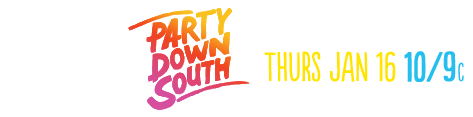
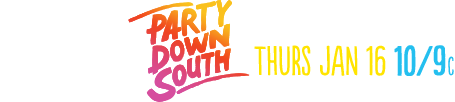
header update with changing background of body

Changed region(s): [[0.2462, 0.0, 1.0, 1.0]]

diff --git a/app/css/app.css b/app/css/app.css
@@ -1,5 +1,7 @@
 body {
-    background: #020000 url('../img/back.jpg') 50% 0 no-repeat;
+    background: url('../img/header-diagonal-bg-small.png') top no-repeat,
+    url('../img/background-image-no-border.jpg') top no-repeat,
+    #020000;
     color: #ffffff;
     font-size: 14px;
     font-family: Verdana, Geneva, 'DejaVu Sans', sans-serif;
@@ -178,9 +180,9 @@ body {
     background: rgba(0, 0, 0, 0.63);
 }
 
-    .footer > div {
-        overflow: hidden;
-    }
+.footer > div {
+    overflow: hidden;
+}
 
 .footer-col-left img {
     border: 1px solid #000;
@@ -201,19 +203,19 @@ body {
     margin: 5px 0 0;
 }
 
-    .footer-col-left li a {
-        display: block;
-    }
+.footer-col-left li a {
+    display: block;
+}
 
-    .footer-col-left li img {
-        vertical-align: top;
-        width: auto;
-    }
+.footer-col-left li img {
+    vertical-align: top;
+    width: auto;
+}
 
-    .footer-col-left li:first-child {
-        margin-right: 3%;
-        float: left;
-    }
+.footer-col-left li:first-child {
+    margin-right: 3%;
+    float: left;
+}
 
 .footer-intro {
     background: #000000;
@@ -223,13 +225,13 @@ body {
     margin-bottom: 25px;
 }
 
-    .footer-intro i {
-        font-size: 20px;
-        color: #FFF;
-        padding: 0 10px 0;
-        font-style: normal;
-        font-weight: bold;
-    }
+.footer-intro i {
+    font-size: 20px;
+    color: #FFF;
+    padding: 0 10px 0;
+    font-style: normal;
+    font-weight: bold;
+}
 
 .footer-col-right {
     float: left;
@@ -241,13 +243,60 @@ body {
     font-size: 12px;
 }
 
-    .footer-col-right p:first-child {
-        font-weight: bold;
-    }
+.footer-col-right p:first-child {
+    font-weight: bold;
+}
 
 .footer-col-left {
     float: left;
     width: 40%;
+}
+
+/*///////// HEADER  ///////////*/
+.row.header {
+    padding: 8px 0 7px 0;
+}
+
+#social {
+    position: absolute; 
+    top: 30px;
+    right: 20px;
+}
+
+#social a {
+    display: inline-block;
+    vertical-align: bottom;
+}
+
+.about-channel {
+    overflow: hidden;
+    margin: 10px 0 0;
+}
+
+.about-channel a {
+    color: #fff;
+    font-weight: bold;
+    font-size: 11px;
+    text-transform: uppercase;
+    float: right;
+}
+
+.about-channel a:first-child {
+    float: left;
+}
+
+.header-like {
+    background: url(../img/header-like.png) no-repeat;
+}
+
+.header-share {
+    background: url(../img/header-share.png) no-repeat;
+    margin-left: 12px;
+}
+
+.header-watch {
+    background: url(../img/header-watch.png) no-repeat;
+    margin-left: 12px;
 }
 
 

diff --git a/app/index.html b/app/index.html
@@ -18,8 +18,18 @@
 <body ng-cloak>
     <div class="container" ng-controller="AppController">
         <div class="row header">
-            <img ng-src="{{ui.header.logo.url}}" alt="{{ui.header.logo.title}}" />
-            <a href="">Like</a><a href="">Share</a>
+            <div class="col-lg-12">
+                <img ng-src="{{ui.header.logo.url}}" alt="{{ui.header.logo.title}}" />
+                <div id="social">
+                    <a href="" class="header-like"><img src="img/header-like.png" alt="like us" /></a>
+                    <a href="" class="header-share"><img src="img/header-share.png" alt="like us" /></a>
+                    <a href="" class="header-watch"><img src="img/header-watch.png" alt="watch" /></a>
+                     <div class="about-channel">
+                        <a href="#">About the Show</a>
+                        <a href="#">Channel Finder</a>
+                    </div>
+                </div>
+            </div>
         </div>
         <div class="row main">
             <div class="col-lg-6 center view">
